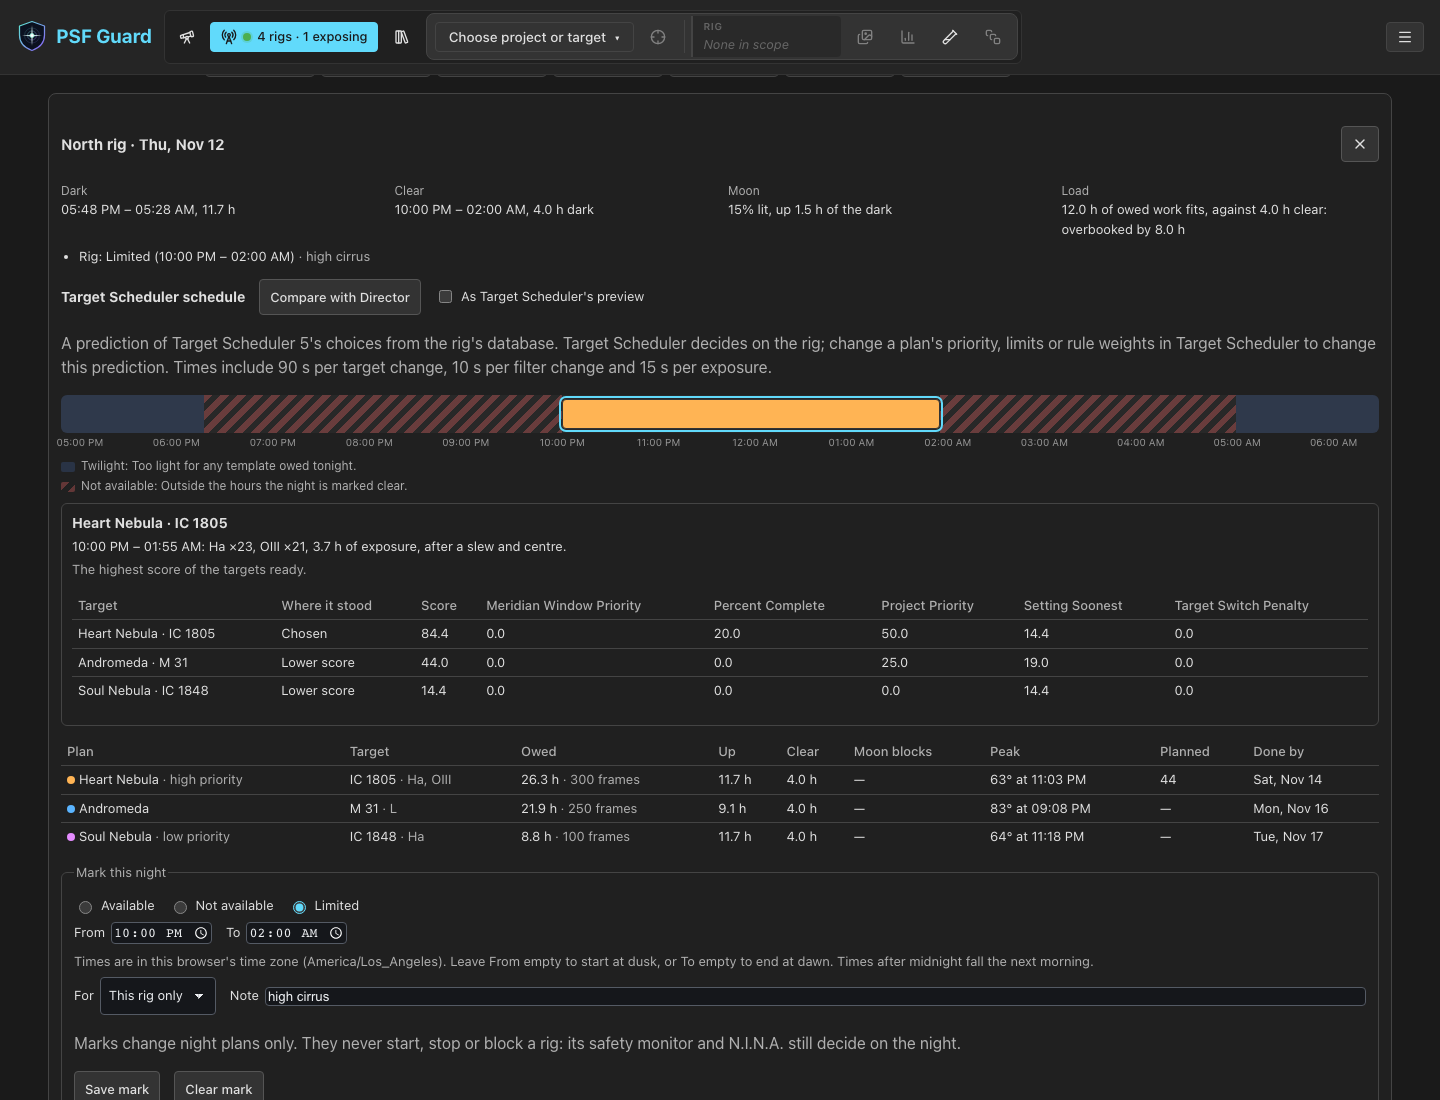
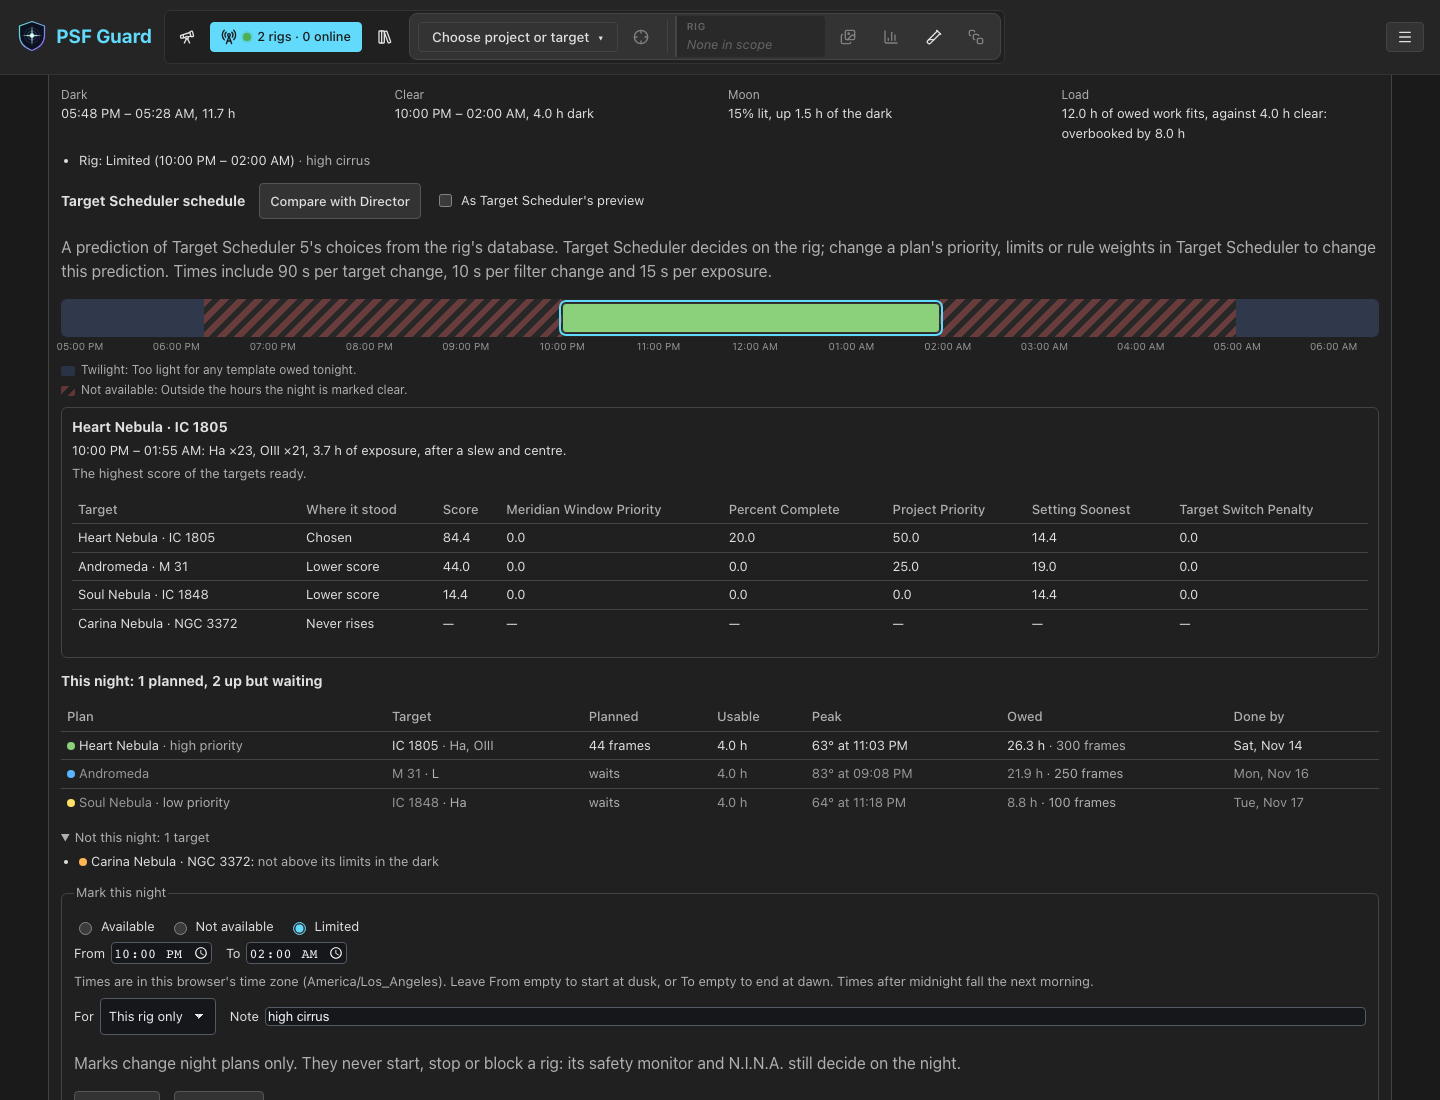
List only the plans a night applies to, and fold the rest
A night's plan table listed every target the rig owes, most of them not
up or not clear that night, so the plans that night actually serves were
hard to find. It now lists the targets the schedule shoots, with the
frames planned, then those up and clear but waiting for other work, each
with its usable hours (up, clear and allowed by the Moon). The other
targets fold into "Not this night", each with the reason it is out: its
filters' Moon rules, up only while the night is marked not clear, or not
above its limits in the dark.

Claude-Session: https://claude.ai/code/session_01QRRMrqiH2vB7WUWPTee9mb

diff --git a/static/src/components/nights/NightDetail.tsx b/static/src/components/nights/NightDetail.tsx
@@ -17,8 +17,10 @@ import {
   formatClock,
   formatNightDate,
   isTonight,
-  plansOnNight,
+  planRows,
+  TONIGHT_REASON,
   windowFor,
+  type PlanRow,
 } from './nightsModel';
 
 interface Props {
@@ -142,42 +144,45 @@ function describeLoad(night: RigNight): string {
   return owed;
 }
 
+/**
+ * The plans the night applies to: what its schedule shoots, then what is
+ * up and clear but waits for other work. Targets the night does not apply
+ * to fold into a list, each with the reason.
+ */
 function PlanHours({ rig, night, colours }: { rig: RigNights; night: RigNight; colours: Map<string, number> }) {
-  const working = new Set(plansOnNight(rig, night).map(plan => plan.project_id));
-  const index = rig.nights.findIndex(n => n.date === night.date);
+  if (rig.plans.length === 0) return <p className="director-muted">This rig owes no frames.</p>;
+  const { tonight, other } = planRows(rig, night);
   const progress = rig.schedule?.progress ?? [];
-  const planned = (projectId: number, targetId: number) => progress
-    .filter(p => p.project_id === projectId && p.target_id === targetId)
-    .reduce((sum, p) => sum + (p.planned[index] ?? 0), 0);
   const completes = (projectId: number, targetId: number) => {
     const plans = progress.filter(p => p.project_id === projectId && p.target_id === targetId && !p.complete_before);
     if (plans.length === 0 || plans.some(p => p.completes_on === null)) return null;
     return Math.max(...plans.map(p => p.completes_on!));
   };
-  if (rig.plans.length === 0) return <p className="director-muted">This rig owes no frames.</p>;
-  const hours = new Map(night.targets.map(target => [`${target.project_id}:${target.target_id}`, target]));
-  return <div className="director-table-scroll"><table className="nights-plan-table">
-    <thead><tr><th>Plan</th><th>Target</th><th>Owed</th><th>Up</th><th>Clear</th><th>Moon blocks</th><th>Peak</th>{rig.schedule && <><th>Planned</th><th>Done by</th></>}</tr></thead>
-    <tbody>{rig.plans.flatMap(plan => plan.targets.map(target => {
-      const tonight = hours.get(`${plan.project_id}:${target.target_id}`);
-      return <tr key={`${plan.project_id}:${target.target_id}`} className={working.has(plan.project_id) ? undefined : 'is-idle-plan'}>
-        <td><span className="nights-plan-dot" data-colour={colours.get(plan.name) ?? 0} aria-hidden="true" />{plan.name}{plan.priority !== 'normal' && <span className="director-muted"> · {plan.priority} priority</span>}</td>
-        <td>{target.name}<span className="director-muted"> · {target.filters.join(', ')}</span></td>
-        <td>{formatHours(target.hours_owed)}<span className="director-muted"> · {target.frames_owed} frames</span></td>
-        <td>{formatHours(tonight?.hours_up ?? 0)}</td>
-        <td>{formatHours(tonight?.hours_up_available ?? 0)}</td>
-        <td>{tonight && tonight.hours_moon_blocked > 0 ? formatHours(tonight.hours_moon_blocked) : '—'}</td>
-        <td>{tonight && tonight.max_altitude_degrees > -90 ? `${Math.round(tonight.max_altitude_degrees)}°${tonight.transit_ms ? ` at ${formatClock(tonight.transit_ms)}` : ''}` : '—'}</td>
-        {rig.schedule && <>
-          <td>{planned(plan.project_id, target.target_id) || '—'}</td>
-          <td>{(() => {
-            const done = completes(plan.project_id, target.target_id);
-            return done === null ? <span className="director-muted">not in {rig.schedule.nights.length} nights</span> : formatNightDate(rig.schedule.nights[done]?.date ?? night.date);
-          })()}</td>
-        </>}
-      </tr>;
-    }))}</tbody>
-  </table></div>;
+  const planName = (row: PlanRow) => <><span className="nights-plan-dot" data-colour={colours.get(row.plan.name) ?? 0} aria-hidden="true" />{row.plan.name}</>;
+  return <section className="nights-plans" aria-label="Plans this night">
+    <h4>{tonight.length === 0 ? 'No owed target is up and clear this night' : `This night: ${tonight.filter(r => r.status === 'planned').length} planned, ${tonight.filter(r => r.status === 'up').length} up but waiting`}</h4>
+    {tonight.length > 0 && <div className="director-table-scroll"><table className="nights-plan-table">
+      <thead><tr><th>Plan</th><th>Target</th>{rig.schedule && <th>Planned</th>}<th>Usable</th><th>Peak</th><th>Owed</th>{rig.schedule && <th>Done by</th>}</tr></thead>
+      <tbody>{tonight.map(row => <tr key={`${row.plan.project_id}:${row.target.target_id}`} className={row.status === 'up' ? 'is-idle-plan' : undefined}>
+        <td>{planName(row)}{row.plan.priority !== 'normal' && <span className="director-muted"> · {row.plan.priority} priority</span>}</td>
+        <td>{row.target.name}<span className="director-muted"> · {row.target.filters.join(', ')}</span></td>
+        {rig.schedule && <td>{row.planned > 0 ? `${row.planned} frames` : <span className="director-muted">waits</span>}</td>}
+        <td title={row.hours && row.hours.hours_moon_blocked > 0 ? `${formatHours(row.hours.hours_moon_blocked)} of its clear hours blocked by the Moon` : undefined}>{formatHours(row.usable)}</td>
+        <td>{row.hours && row.hours.max_altitude_degrees > -90 ? `${Math.round(row.hours.max_altitude_degrees)}°${row.hours.transit_ms ? ` at ${formatClock(row.hours.transit_ms)}` : ''}` : '—'}</td>
+        <td>{formatHours(row.target.hours_owed)}<span className="director-muted"> · {row.target.frames_owed} frames</span></td>
+        {rig.schedule && <td>{(() => {
+          const done = completes(row.plan.project_id, row.target.target_id);
+          return done === null ? <span className="director-muted">not in {rig.schedule.nights.length} nights</span> : formatNightDate(rig.schedule.nights[done]?.date ?? night.date);
+        })()}</td>}
+      </tr>)}</tbody>
+    </table></div>}
+    {other.length > 0 && <details className="nights-other-plans">
+      <summary>Not this night: {other.length} target{other.length === 1 ? '' : 's'}</summary>
+      <ul>{other.map(row => <li key={`${row.plan.project_id}:${row.target.target_id}`}>
+        {planName(row)} · {row.target.name}: <span className="director-muted">{TONIGHT_REASON[row.status as keyof typeof TONIGHT_REASON]}</span>
+      </li>)}</ul>
+    </details>}
+  </section>;
 }
 
 function failure(error: unknown): string {

diff --git a/static/src/components/nights/nightsModel.ts b/static/src/components/nights/nightsModel.ts
@@ -1,4 +1,4 @@
-import type { NightAvailabilityState, NightInterval, NightRuntime, RigNight, RigNights } from '../../api/nightPlanTypes';
+import type { NightAvailabilityState, NightInterval, NightPlanProject, NightPlanTarget, NightRuntime, NightTargetHours, RigNight, RigNights } from '../../api/nightPlanTypes';
 import { withoutPlanningParams } from '../../hooks/useUrlState';
 
 const DAY_MS = 86_400_000;
@@ -163,6 +163,68 @@ export function plansOnNight(rig: RigNights, night: RigNight): Array<{ project_i
     .filter(plan => hours.has(plan.project_id))
     .map(plan => ({ project_id: plan.project_id, name: plan.name, hours: hours.get(plan.project_id)! }))
     .sort((a, b) => b.hours - a.hours || a.name.localeCompare(b.name));
+}
+
+/** Where a target stands on one night. */
+export type TargetTonight =
+  /** The night's schedule shoots it. */
+  | 'planned'
+  /** Up, clear and allowed by the Moon, but other work comes first. */
+  | 'up'
+  /** Up while the night is clear, but its filters' Moon rules turn it down. */
+  | 'moon'
+  /** Up only while the night is marked not clear. */
+  | 'not_clear'
+  /** Not above its limits in the dark. */
+  | 'below_limits';
+
+export const TONIGHT_REASON: Record<Exclude<TargetTonight, 'planned' | 'up'>, string> = {
+  moon: 'the Moon rules of its filters turn it down',
+  not_clear: 'up only while the night is marked not clear',
+  below_limits: 'not above its limits in the dark',
+};
+
+export interface PlanRow {
+  plan: NightPlanProject;
+  target: NightPlanTarget;
+  hours: NightTargetHours | undefined;
+  /** Frames the night's schedule plans for the target. */
+  planned: number;
+  /** Hours it is up, clear and allowed by the Moon. */
+  usable: number;
+  status: TargetTonight;
+}
+
+/**
+ * A rig's owed targets for one night, split into those the night applies
+ * to (planned first, then the most usable) and the rest, each with why it
+ * is out.
+ */
+export function planRows(rig: RigNights, night: RigNight): { tonight: PlanRow[]; other: PlanRow[] } {
+  const index = rig.nights.findIndex(n => n.date === night.date);
+  const progress = rig.schedule?.progress ?? [];
+  const hours = new Map(night.targets.map(target => [`${target.project_id}:${target.target_id}`, target]));
+  const rows: PlanRow[] = rig.plans.flatMap(plan => plan.targets.map(target => {
+    const tonight = hours.get(`${plan.project_id}:${target.target_id}`);
+    const planned = progress
+      .filter(p => p.project_id === plan.project_id && p.target_id === target.target_id)
+      .reduce((sum, p) => sum + (p.planned[index] ?? 0), 0);
+    const clear = tonight?.hours_up_available ?? 0;
+    const usable = Math.max(0, clear - (tonight?.hours_moon_blocked ?? 0));
+    const status: TargetTonight = planned > 0 ? 'planned'
+      : usable > 0.01 ? 'up'
+      : clear > 0.01 ? 'moon'
+      : (tonight?.hours_up ?? 0) > 0.01 ? 'not_clear'
+      : 'below_limits';
+    return { plan, target, hours: tonight, planned, usable, status };
+  }));
+  const tonight = rows
+    .filter(row => row.status === 'planned' || row.status === 'up')
+    .sort((a, b) => b.planned - a.planned || b.usable - a.usable || a.plan.name.localeCompare(b.plan.name));
+  const other = rows
+    .filter(row => row.status !== 'planned' && row.status !== 'up')
+    .sort((a, b) => a.plan.name.localeCompare(b.plan.name) || a.target.name.localeCompare(b.target.name));
+  return { tonight, other };
 }
 
 /** A colour slot for each plan, stable across the page: by name, so one

diff --git a/static/src/components/nights/__tests__/nightsModel.test.ts b/static/src/components/nights/__tests__/nightsModel.test.ts
@@ -1,5 +1,5 @@
 import { describe, expect, it } from 'vitest';
-import { availableShares, clockOnNight, datesBetween, isDate, loadWords, markGlyph, planColours, plansOnNight, windowFor } from '../nightsModel';
+import { availableShares, clockOnNight, datesBetween, isDate, loadWords, markGlyph, planColours, planRows, plansOnNight, windowFor } from '../nightsModel';
 import { night, rig } from './fixtures';
 
 const HOUR = 3_600_000;
@@ -52,5 +52,42 @@ describe('night plan helpers', () => {
     expect(plansOnNight(owner, owner.nights[1])).toEqual([]);
     expect(planColours([owner, rig({ plans: [{ ...owner.plans[0], name: 'Andromeda' }] })])).toEqual(new Map([['Andromeda', 0], ['Heart Nebula', 1]]));
     expect(datesBetween(owner, owner.nights[2].date, owner.nights[0].date)).toEqual(owner.nights.map(n => n.date));
+  });
+
+  it('lists the targets a night applies to, planned first, and folds the rest with a reason', () => {
+    const base = rig();
+    const second = { ...base.plans[0], project_id: 8, name: 'Andromeda', targets: [{ ...base.plans[0].targets[0], target_id: 80, name: 'M 31' }] };
+    const third = { ...base.plans[0], project_id: 9, name: 'Orion', targets: [{ ...base.plans[0].targets[0], target_id: 90, name: 'M 42' }] };
+    const owner = rig({
+      plans: [base.plans[0], second, third],
+      schedule: {
+        runtime: 'target_scheduler',
+        nights: [],
+        progress: [{ project_id: 8, target_id: 80, exposure_plan_id: 1, filter: 'L', desired: 10, accepted_before: 0, acquired_before: 0, planned: [12, 0, 0], completes_on: null, complete_before: false }],
+        assumptions: { target_scheduler_version: '5', fidelity: 'estimate', overheads: null, acceptance: 'plan_rate', utc_offset_minutes: 0 },
+      },
+    });
+    const first = night(0, {
+      targets: [
+        // The Heart: up and clear, but nothing planned for it.
+        { project_id: 7, target_id: 70, hours_up: 6, hours_up_available: 6, hours_moon_blocked: 1, max_altitude_degrees: 70, transit_ms: null },
+        // Andromeda: planned.
+        { project_id: 8, target_id: 80, hours_up: 5, hours_up_available: 5, hours_moon_blocked: 0, max_altitude_degrees: 80, transit_ms: null },
+        // Orion: never above its limits in the dark.
+        { project_id: 9, target_id: 90, hours_up: 0, hours_up_available: 0, hours_moon_blocked: 0, max_altitude_degrees: 10, transit_ms: null },
+      ],
+    });
+    const { tonight, other } = planRows(owner, first);
+    expect(tonight.map(row => [row.plan.name, row.status, row.planned, row.usable])).toEqual([
+      ['Andromeda', 'planned', 12, 5],
+      ['Heart Nebula', 'up', 0, 5],
+    ]);
+    expect(other.map(row => [row.plan.name, row.status])).toEqual([['Orion', 'below_limits']]);
+    // A night marked out leaves everything that would be up as not clear;
+    // one the Moon blocks entirely says so.
+    const marked = night(1, { targets: [{ project_id: 7, target_id: 70, hours_up: 6, hours_up_available: 0, hours_moon_blocked: 0, max_altitude_degrees: 70, transit_ms: null }] });
+    expect(planRows(rig(), marked).other.map(row => row.status)).toEqual(['not_clear']);
+    const moonlit = night(0, { targets: [{ project_id: 7, target_id: 70, hours_up: 6, hours_up_available: 6, hours_moon_blocked: 6, max_altitude_degrees: 70, transit_ms: null }] });
+    expect(planRows(rig(), moonlit).other.map(row => row.status)).toEqual(['moon']);
   });
 });

diff --git a/static/e2e-director/nights.spec.ts b/static/e2e-director/nights.spec.ts
@@ -71,6 +71,8 @@ test('Nights shows every rig across the coming nights, a night\'s schedule, and 
       { name: 'Heart Nebula', priority: 2, target: 'IC 1805', ra_hours: 2.5467, dec: 61.45, filters: [['Ha', 120], ['OIII', 120]], switchEvery: 3 },
       { name: 'Andromeda', priority: 1, target: 'M 31', ra_hours: 0.7123, dec: 41.27, filters: [['L', 200]], moon: true },
       { name: 'Soul Nebula', priority: 0, target: 'IC 1848', ra_hours: 2.8533, dec: 60.4, filters: [['Ha', 80]] },
+      // Never above 25° from 34° north, so no night applies to it.
+      { name: 'Carina Nebula', priority: 0, target: 'NGC 3372', ra_hours: 10.7514, dec: -59.87, filters: [['Ha', 120]] },
     ]), { latitude_degrees: 34.2, longitude_degrees: -118.3 });
     await addRig(request, 'South rig', slugs[1], rigDatabase([
       { name: 'Orion', priority: 1, target: 'M 42', ra_hours: 5.588, dec: -5.39, filters: [['Ha', 150], ['SII', 150]], switchEvery: 2 },
@@ -104,6 +106,15 @@ test('Nights shows every rig across the coming nights, a night\'s schedule, and 
     await expect(reasons).toBeVisible();
     await expect(reasons.getByText('Chosen')).toBeVisible();
     await shot(page, 'nights-schedule', name => testInfo.outputPath(name));
+
+    // The plan table lists what the night applies to and folds the rest.
+    const plans = detail.getByRole('region', { name: 'Plans this night' });
+    await expect(plans.getByRole('heading', { name: /^This night: \d+ planned/ })).toBeVisible();
+    await expect(plans.getByRole('row').filter({ hasText: 'Heart Nebula' })).toContainText('frames');
+    await plans.getByText('Not this night: 1 target').click();
+    await expect(plans.getByRole('listitem').filter({ hasText: 'Carina Nebula · NGC 3372' })).toContainText('not above its limits in the dark');
+    await expect(plans.getByRole('row').filter({ hasText: 'Carina Nebula' })).toHaveCount(0);
+    await shot(plans, 'nights-plans', name => testInfo.outputPath(name), false);
 
     // Mark the night clear only from 22:00 to 02:00 for this rig.
     await detail.getByLabel('Limited').check();

diff --git a/static/src/components/nights/__tests__/NightsView.test.tsx b/static/src/components/nights/__tests__/NightsView.test.tsx
@@ -62,8 +62,17 @@ describe('Nights', () => {
     const detail = screen.getByRole('region', { name: 'Night details' });
     expect(within(detail).getByText(/Rig: Not available/)).toBeInTheDocument();
     expect(within(detail).getByText('· dome motor')).toBeInTheDocument();
-    expect(within(detail).getByText('IC 1805')).toBeInTheDocument();
+    // Marked out, the night applies to nothing; the target folds away
+    // with its reason.
+    const plansTonight = within(detail).getByRole('region', { name: 'Plans this night' });
+    expect(within(plansTonight).getByRole('heading')).toHaveTextContent('No owed target is up and clear this night');
+    expect(within(plansTonight).getByText('Not this night: 1 target')).toBeInTheDocument();
+    expect(within(plansTonight).getByRole('listitem')).toHaveTextContent('Heart Nebula · IC 1805: up only while the night is marked not clear');
     expect(cells[1]).toHaveAttribute('aria-pressed', 'true');
+    // A clear night lists it, usable for its hours less the Moon's.
+    fireEvent.click(cells[0]);
+    const clearNight = within(screen.getByRole('region', { name: 'Night details' })).getByRole('region', { name: 'Plans this night' });
+    expect(within(clearNight).getByRole('row', { name: /IC 1805/ })).toHaveTextContent('5.0 h');
   });
 
   it('marks a run of nights limited for every rig at the site', async () => {

diff --git a/static/src/components/nights/NightsView.css b/static/src/components/nights/NightsView.css
@@ -214,3 +214,8 @@
 .nights-reasons p { margin: 4px 0; font-size: 13px; }
 .nights-now { position: absolute; top: 0; bottom: 0; width: 2px; margin-left: -1px; background: var(--state-on-border); pointer-events: none; }
 .nights-live { margin: 4px 0 8px; font-size: 13px; }
+.nights-plans { margin: 12px 0; }
+.nights-plans h4 { margin: 0 0 4px; font-size: 14px; }
+.nights-other-plans { margin: 6px 0; font-size: 13px; }
+.nights-other-plans summary { cursor: pointer; color: var(--color-text-secondary); }
+.nights-other-plans ul { margin: 4px 0; padding-left: 18px; }

diff --git a/docs/DIRECTOR.md b/docs/DIRECTOR.md
@@ -1910,12 +1910,18 @@ Choose a cell to open the night below the grid:
   a target and its filter runs inside. Gaps are shaded by their reason:
   twilight, not available, Moon, meridian, below limits, all done, or
   nothing fits. Choose a block to see why that target was chosen.
-- **The plan table**: each plan's targets, the hours and frames they still
-  owe, their hours up and clear that night, the hours the Moon blocks, the
-  peak altitude, the frames planned that night, and the night the plan is
-  done within the range.
+- **The plans this night**: only the targets the night applies to. First
+  come those the schedule shoots, with the frames planned, then those that
+  are up and clear but wait for other work. Each row gives the usable hours
+  (up, clear and allowed by the Moon), the peak altitude, what the target
+  still owes, and the night its plan is done within the range. The targets
+  the night does not apply to fold into **Not this night**, each with its
+  reason: the Moon rules of its filters, up only while the night is marked
+  not clear, or not above its limits in the dark.
 
 ![A night's Target Scheduler schedule, with the scores behind the chosen block](images/nights-schedule.png)
+
+![The plans this night, with the targets the night does not apply to folded below](images/nights-plans.png)
 
 A rig whose database Target Scheduler runs gets a prediction of Target
 Scheduler 5's own choices: its stickiness to a target for the project's

diff --git a/docs/releases/unreleased.md b/docs/releases/unreleased.md
@@ -20,7 +20,9 @@
   across the coming nights: the clear dark hours, the Moon, and the plans
   each rig would shoot. Choose a night to see its schedule, a prediction of
   what Target Scheduler will shoot there and why it picks each target, or
-  what Director would do; tonight is planned from now. Mark a night
+  what Director would do; tonight is planned from now. The night lists
+  only the targets it applies to, and folds the rest with the reason each
+  is out. Mark a night
   available, not available, or clear only for some hours, for one rig or
   for every rig at a site; the schedules work around the marks. The Live
   table's new **Tonight** column links each rig to tonight's schedule. See
